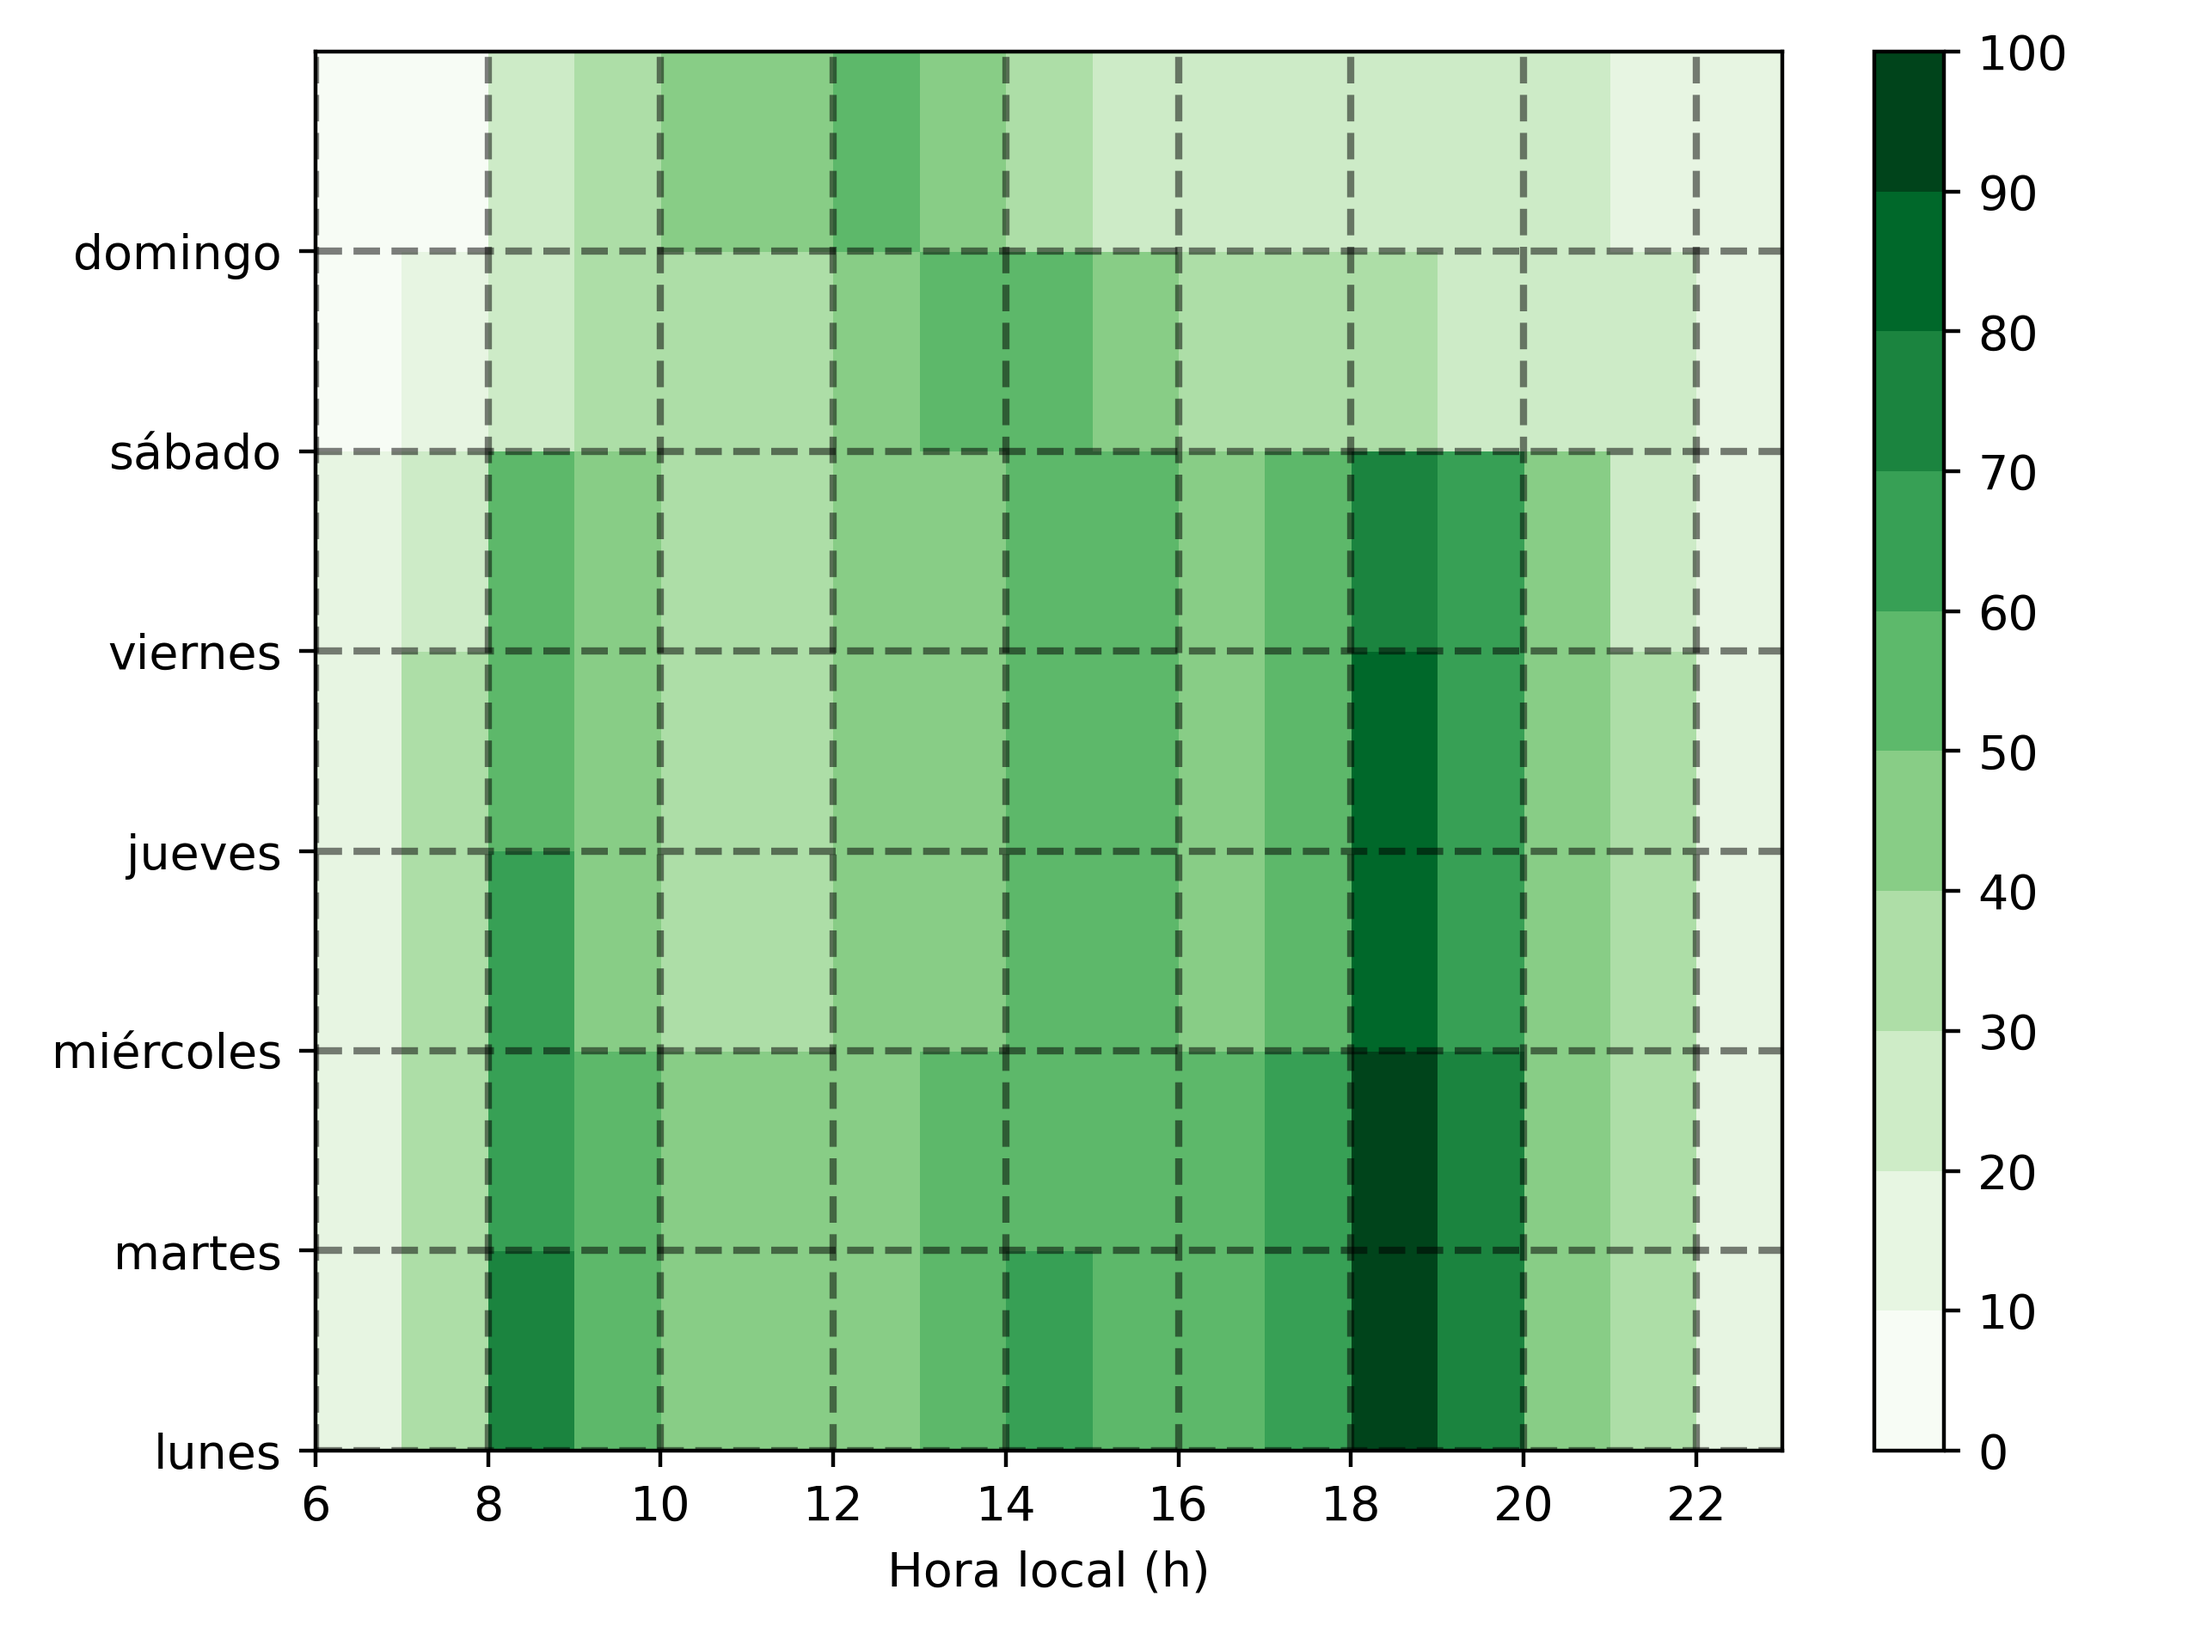
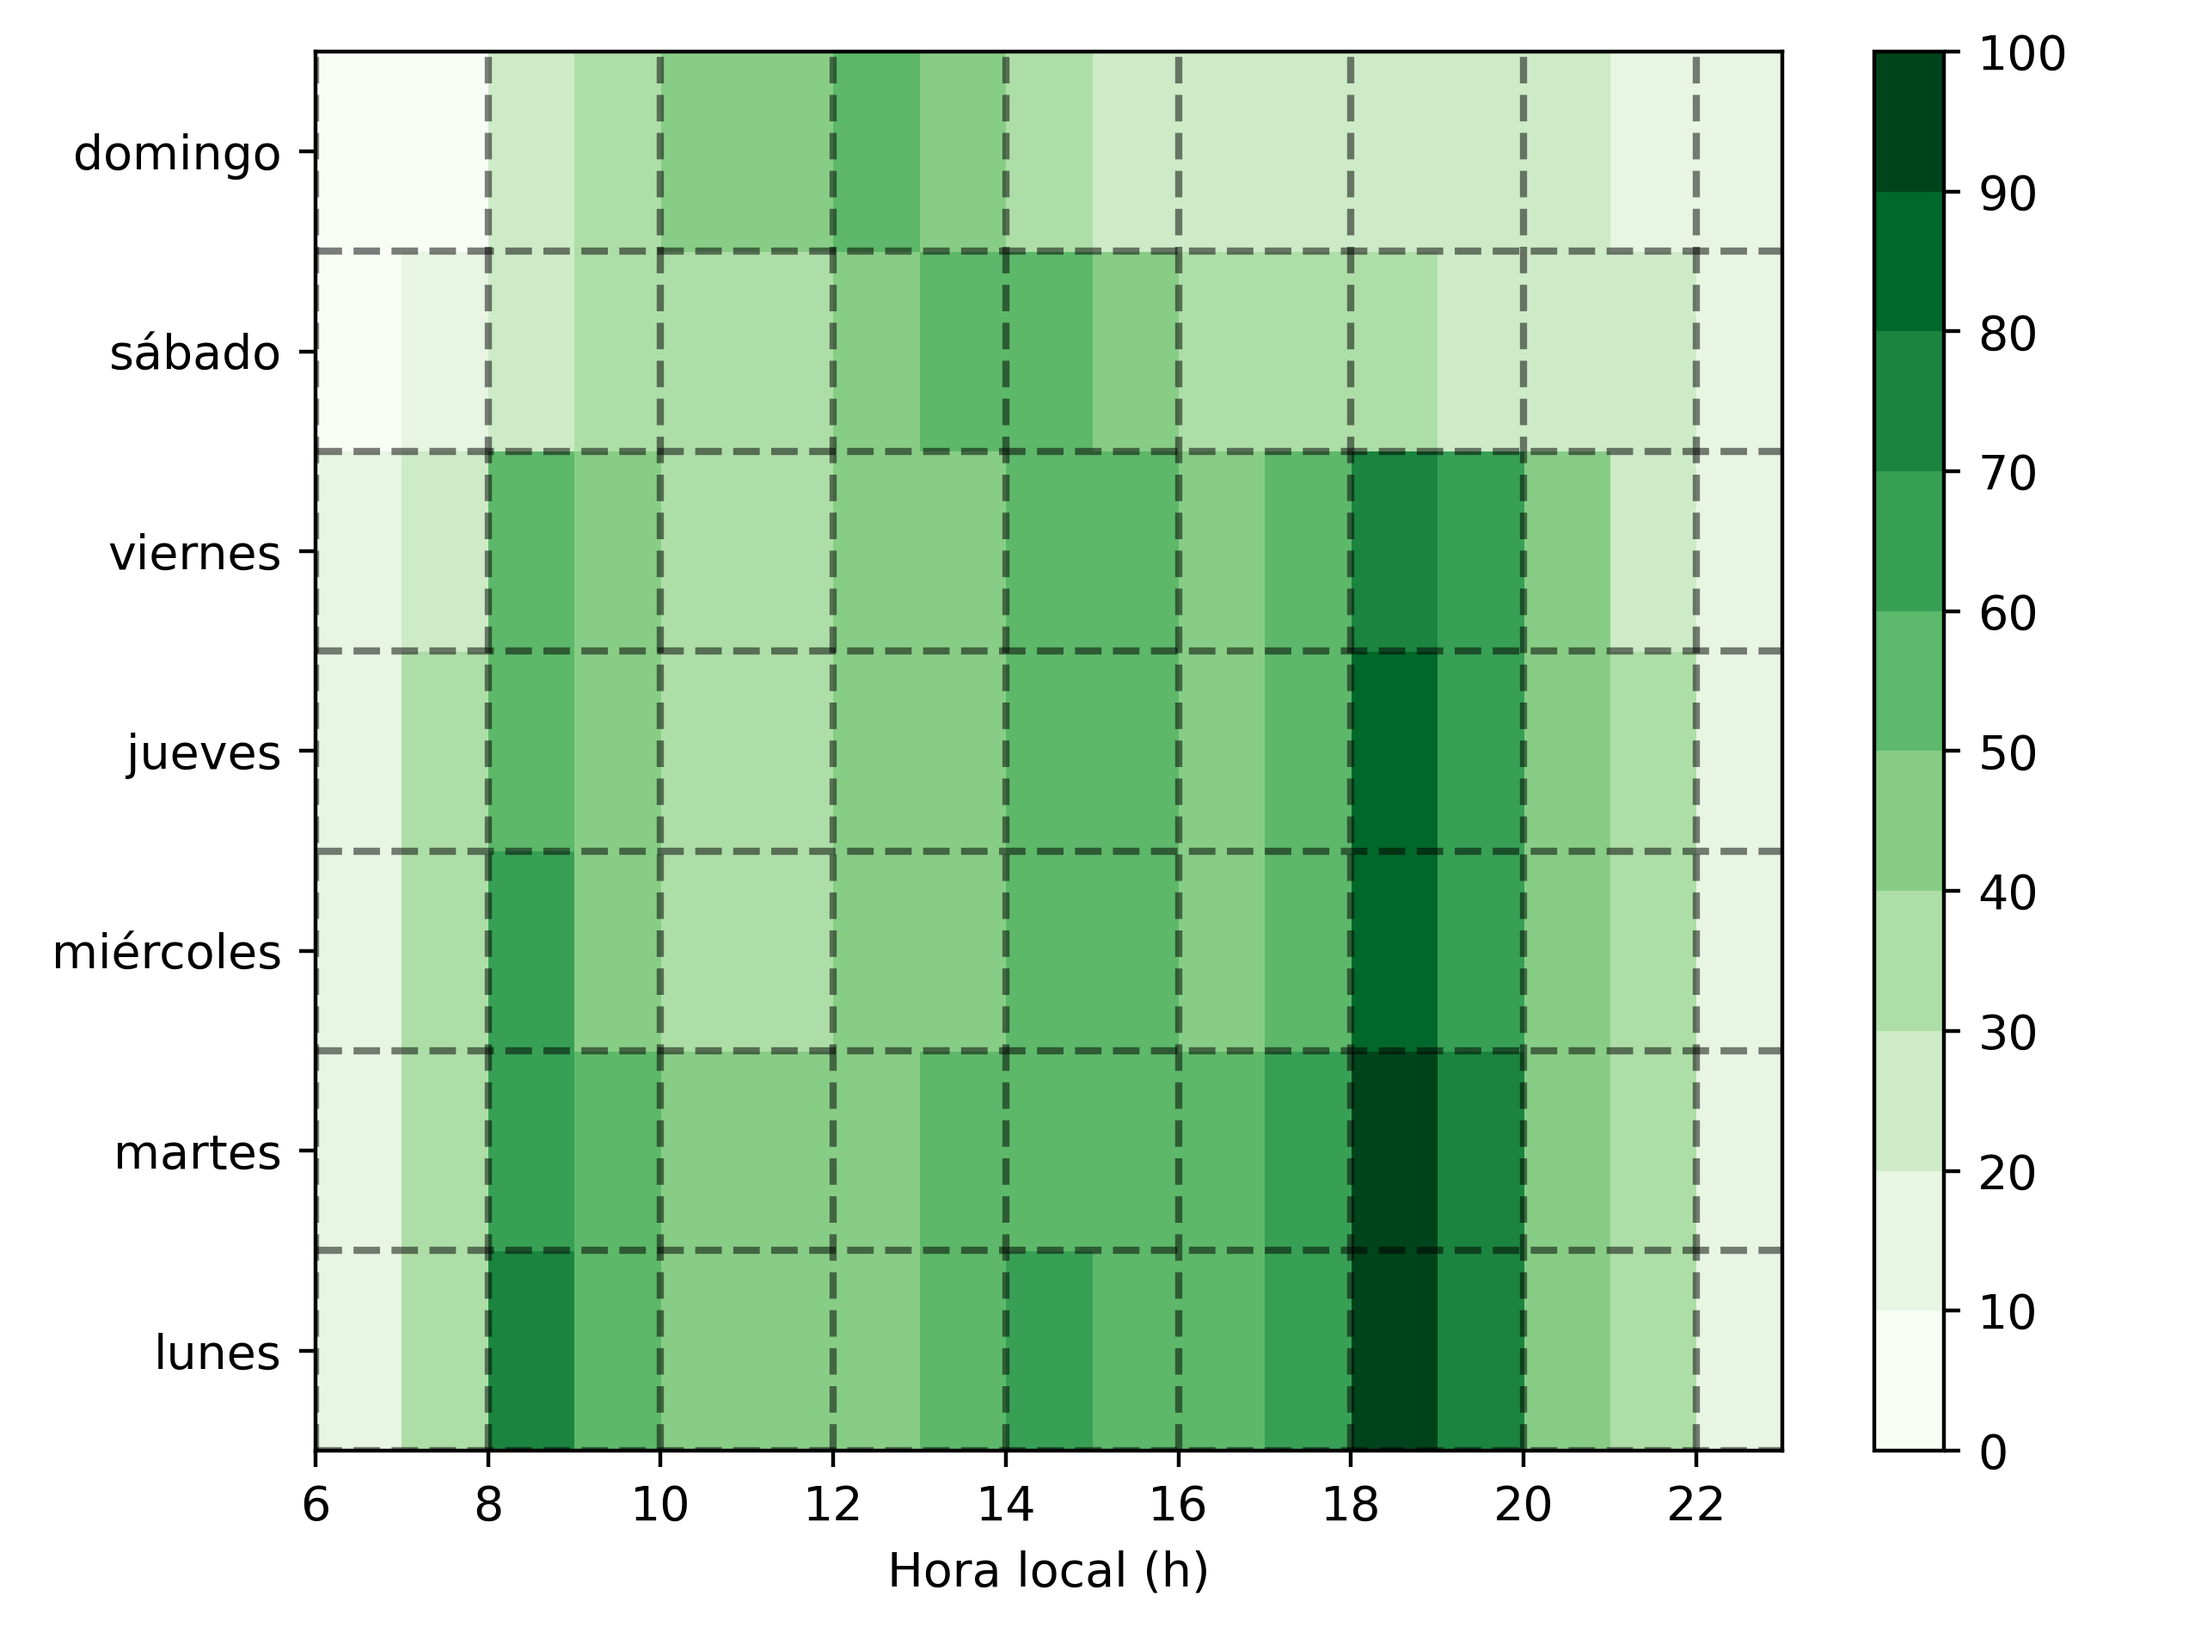
Center ylables

diff --git a/Scripts/Graphics_daily_and_hour_mean_travel.py b/Scripts/Graphics_daily_and_hour_mean_travel.py
@@ -15,6 +15,8 @@ def set_day_of_the_week(data: DataFrame, parameters: dict) -> DataFrame:
 
 parameters = {"path data": "../Output/",
               "file data": "Hourly_count_travel.csv",
+              "path graphics": "../Graphics/",
+              "file graphics": "daily_and_hour_mean.png",
               "days": {"lunes": "1",
                        "martes": "2",
                        "miércoles": "3",
@@ -41,13 +43,21 @@ data_mean = np.array(data_mean)
 cmap = cm.get_cmap('Greens', 10)
 plt.xticks(xticks,
            xlabels)
-plt.yticks(yticks,
+plt.yticks(yticks+0.5,
            parameters["days"])
 plt.xlabel("Hora local (h)")
 plt.grid(ls="--",
          color="#000000",
          alpha=0.5,
-         lw=1.5)
+         lw=1.5,
+         axis="x")
+for ytick in yticks:
+    plt.plot([xticks[0], 16.5],
+             [ytick, ytick],
+             ls="--",
+             color="#000000",
+             alpha=0.5,
+             lw=1.5)
 plt.imshow(data_mean,
            origin="lower",
            cmap=cmap,
@@ -56,5 +66,6 @@ plt.imshow(data_mean,
            aspect='auto')
 plt.tight_layout()
 plt.colorbar(ticks=np.linspace(0, 100, 11))
-plt.savefig("../Graphics/daily_and_hour_mean_travel.png",
+plt.savefig("{}{}".format(parameters["path graphics"],
+                          parameters["file graphics"]),
             dpi=400)
